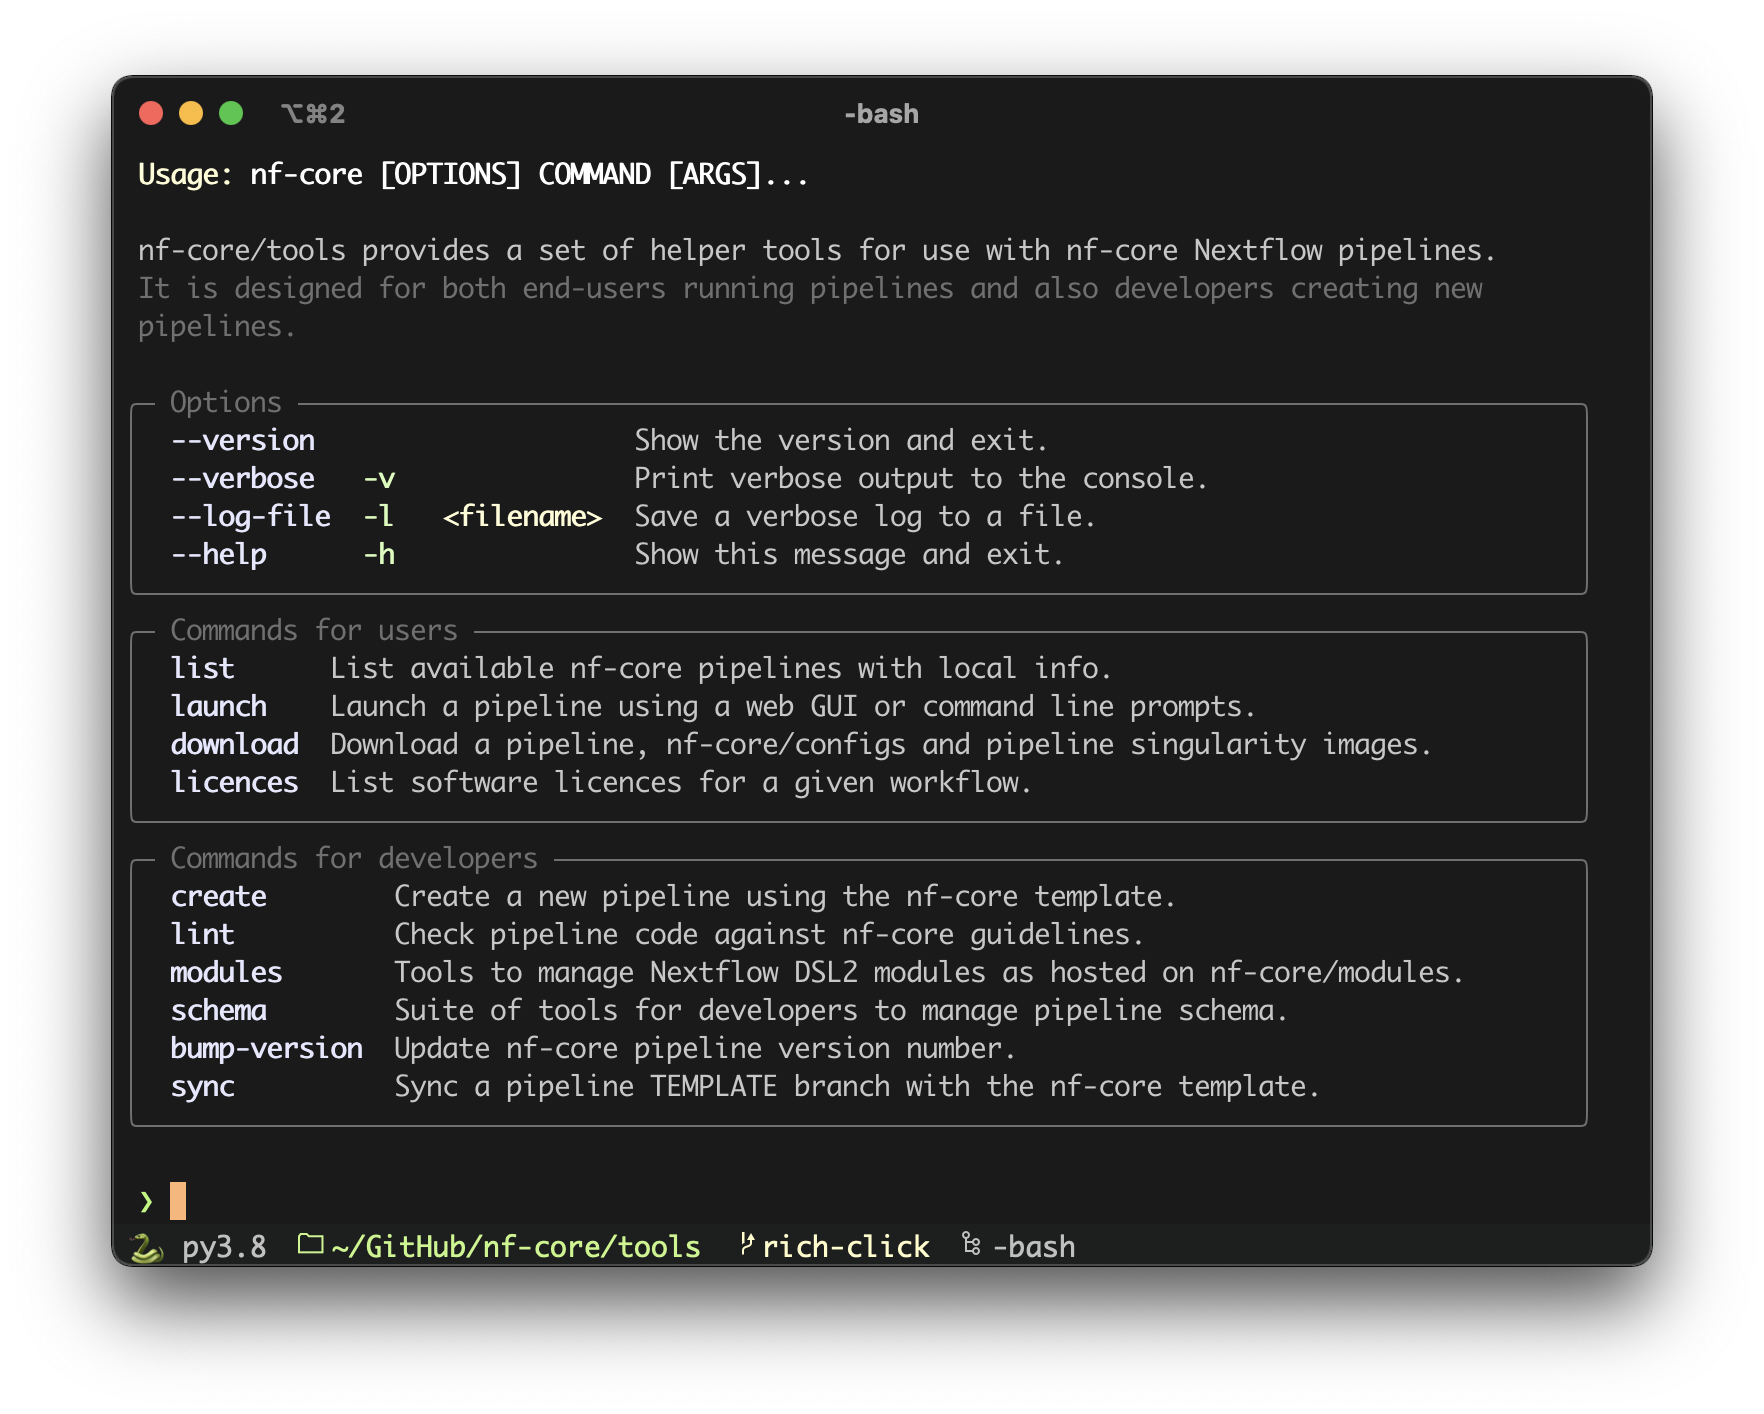
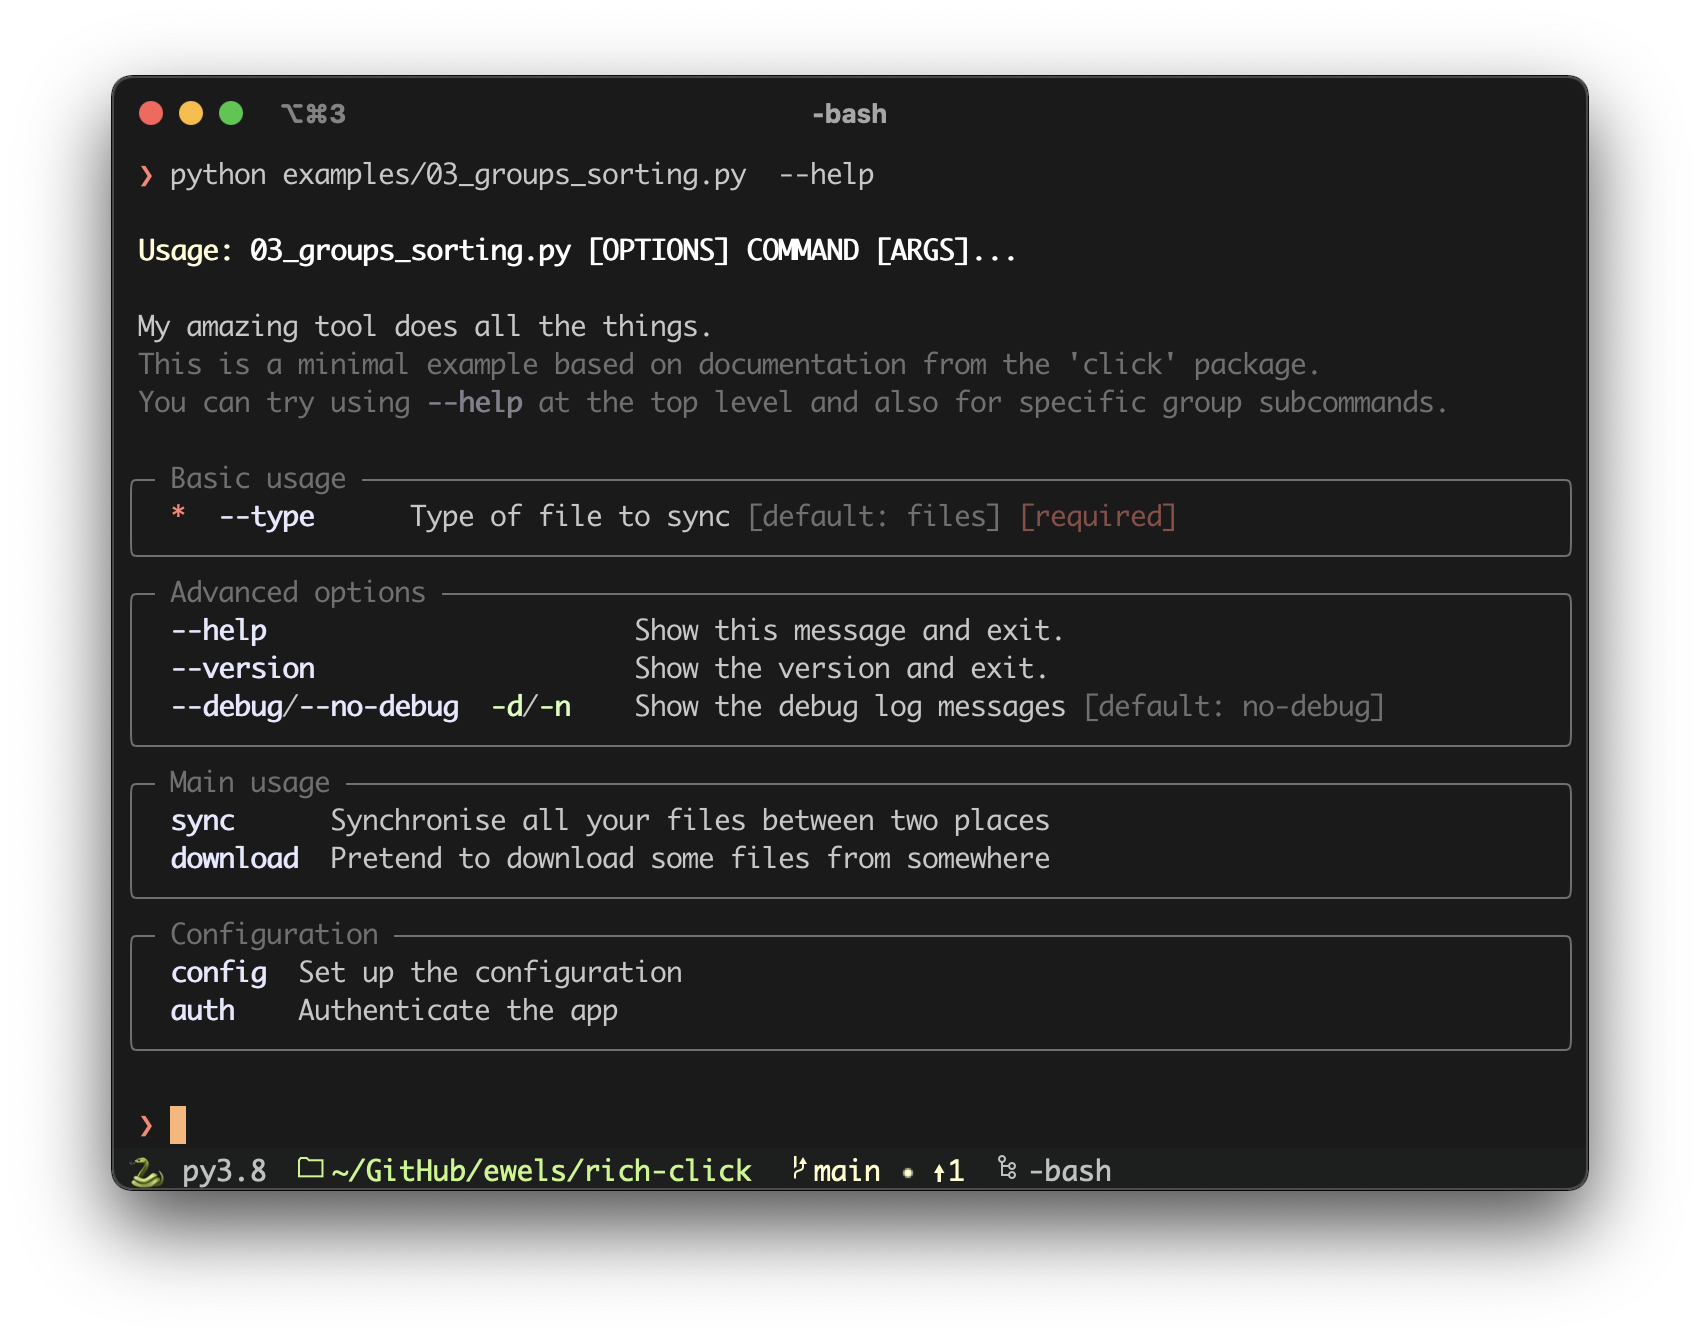
Update screenshot in readme

diff --git a/examples/03_groups_sorting.py b/examples/03_groups_sorting.py
@@ -8,7 +8,7 @@ click.rich_click.OPTION_GROUPS = {
         },
         {
             "name": "Advanced options",
-            "options": ["--debug", "--version", "--help"],
+            "options": ["--help", "--version", "--debug"],
         },
     ],
     "03_groups_sorting.py sync": [
@@ -26,7 +26,7 @@ click.rich_click.COMMAND_GROUPS = {
     "03_groups_sorting.py": [
         {
             "name": "Main usage",
-            "commands": ["download", "sync"],
+            "commands": ["sync", "download"],
         },
         {
             "name": "Configuration",
@@ -41,6 +41,7 @@ click.rich_click.COMMAND_GROUPS = {
     "--type",
     default="files",
     show_default=True,
+    required=True,
     help="Type of file to sync",
 )
 @click.option(
